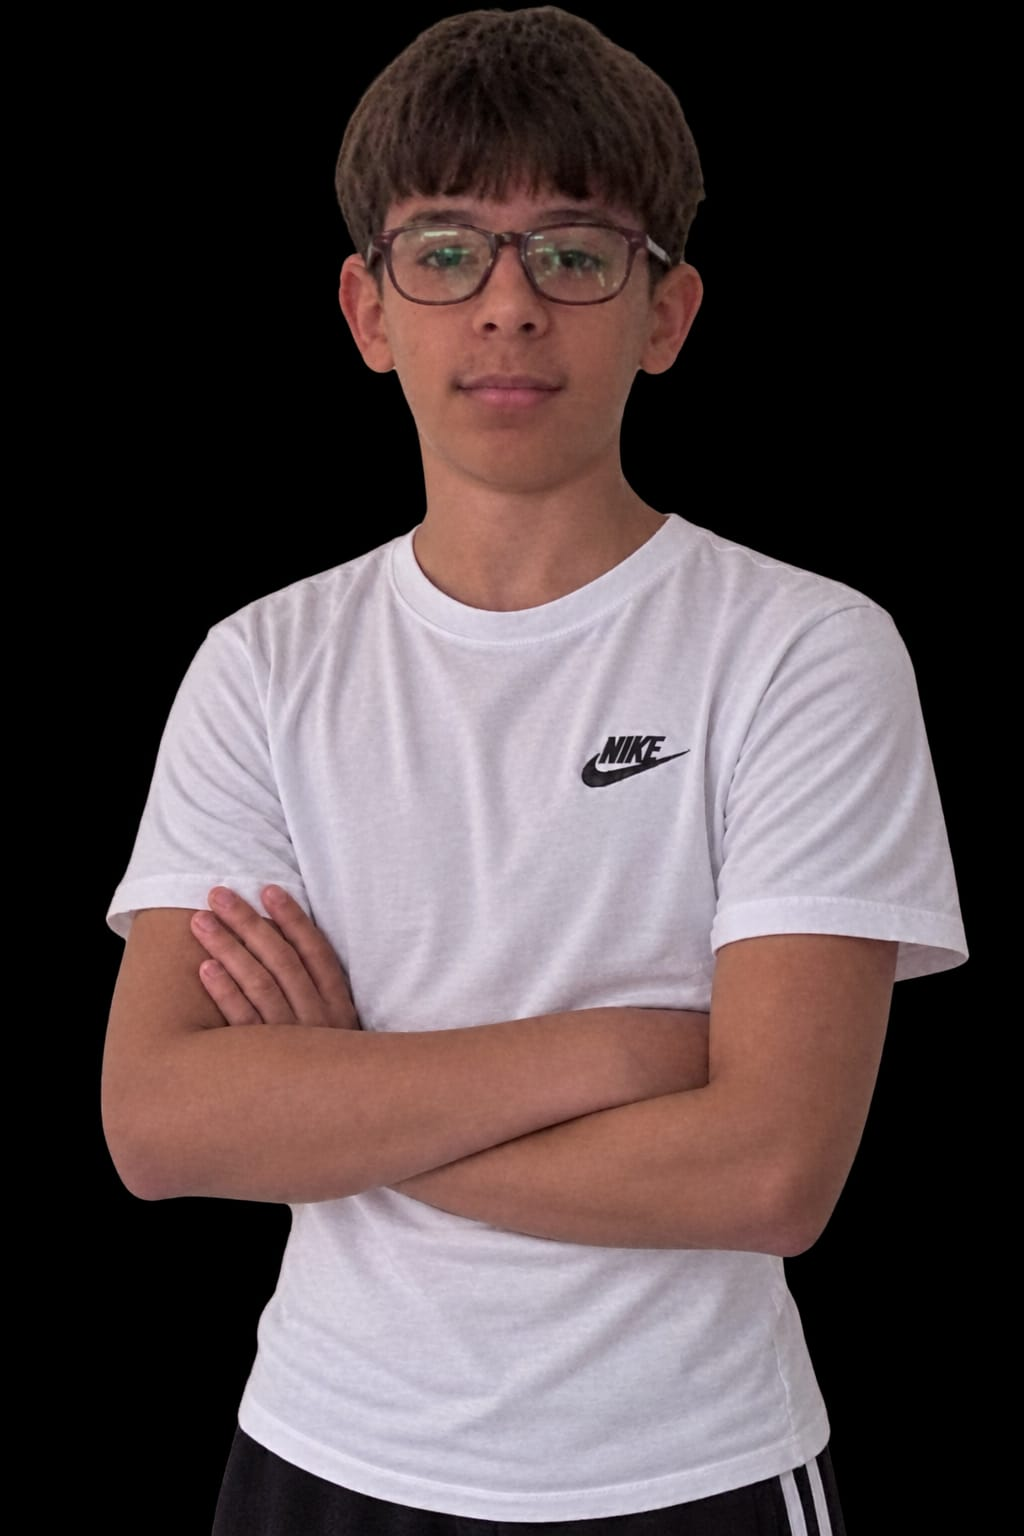
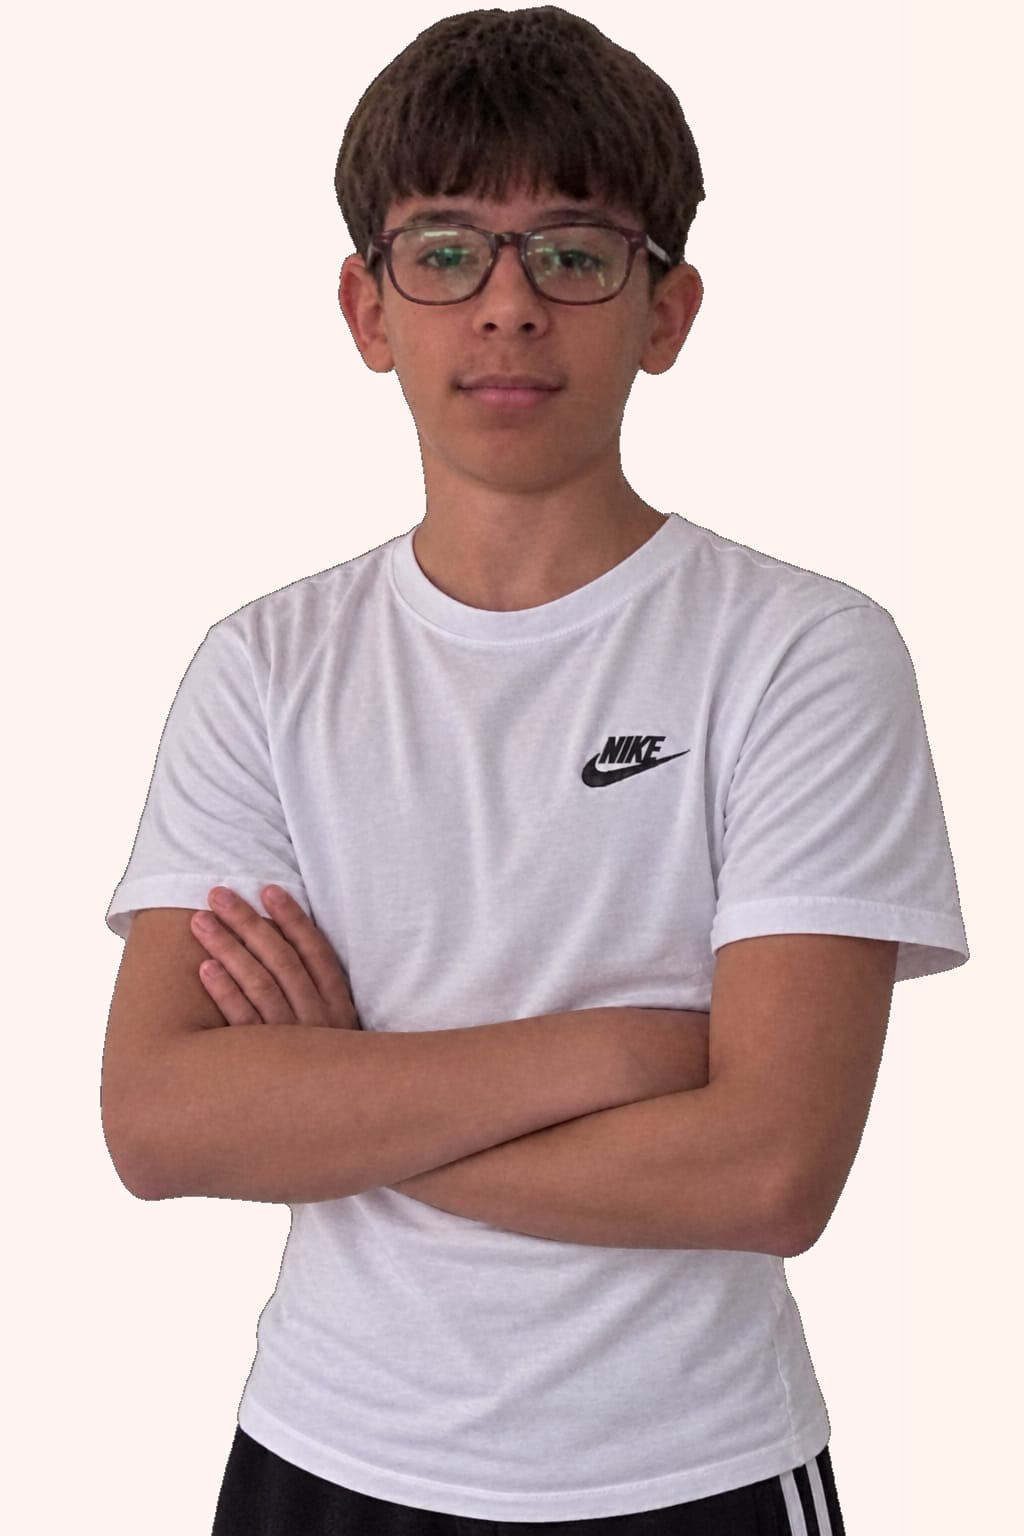
Add files via upload

diff --git a/styles.css b/styles.css
@@ -10,3 +10,7 @@
 @media(max-width:850px){.site-header{height:76px}.brand{width:130px}.menu-toggle{display:block}.main-nav{display:none;position:absolute;top:76px;left:0;right:0;background:#fff;padding:22px 26px 28px;box-shadow:0 15px 20px rgba(0,0,0,.08);flex-direction:column;align-items:stretch;gap:20px}.main-nav.open{display:flex}.nav-cta{text-align:center}.hero{min-height:640px}.hero-photo{background-size:auto 82%;background-position:85% bottom;opacity:.58}.hero-overlay{background:linear-gradient(90deg,rgba(3,48,29,.98),rgba(4,69,39,.78)),linear-gradient(0deg,rgba(0,0,0,.2),transparent)}.hero-content{width:100%;padding:90px 26px 115px}.hero-seal{right:26px;top:25px;width:84px;height:84px}.hero-seal span{font-size:36px}.hero-seal small{font-size:6px}.intro{grid-template-columns:85px 1fr;gap:25px;padding-top:75px;padding-bottom:80px}.intro-symbol{width:76px;height:76px;font-size:36px}.intro-text{grid-column:2;border-left:0;border-top:2px solid var(--green);padding:18px 0 0}.team-section,.proposals-section{padding:75px 0}.team-grid{grid-template-columns:repeat(2,1fr);gap:16px}.member-photo{height:310px}.section-heading{align-items:flex-start;flex-direction:column;gap:17px;margin-bottom:32px}.proposal-grid{grid-template-columns:repeat(2,1fr)}.proposal-wide{grid-column:span 2}.closing-logo{width:210px;right:10px;opacity:.35}.closing-content{max-width:80%}}
 @media(max-width:540px){.topline{font-size:7px;letter-spacing:.12em}.hero{min-height:610px}.hero h1{font-size:52px}.hero-copy{font-size:13px;max-width:370px}.hero-actions{gap:17px}.button{padding:15px 16px;font-size:8px}.hero-bottomline{gap:12px;font-size:7px}.intro{grid-template-columns:1fr;gap:18px}.intro-symbol{width:66px;height:66px;font-size:31px}.intro-text{grid-column:1}.team-grid{grid-template-columns:1fr 1fr;gap:11px}.member-photo{height:245px}.member-info{padding:16px 14px 18px}.member-name{font-size:16px}.member-role{font-size:7px;letter-spacing:.12em}.proposal-grid{grid-template-columns:1fr}.proposal-wide{grid-column:span 1}.proposal-card{min-height:245px;padding:23px}.proposal-card h3{font-size:25px}.closing-banner{min-height:360px;padding:65px 25px}.closing-content{max-width:100%}.closing-content h2{font-size:42px}.closing-logo{width:150px;right:-12px;bottom:15px;opacity:.18}.site-footer{flex-direction:column;align-items:flex-start;gap:11px;padding:25px}.site-footer p{line-height:1.6}}
 @media(prefers-reduced-motion:reduce){html{scroll-behavior:auto}*,*::before,*::after{transition:none!important;animation:none!important}}
+
+/* Retrato del portavoz: fondo integrado y encuadre centrado */
+.spokesperson-photo{background:#fff3ee;}
+.spokesperson-photo img{object-fit:contain;object-position:center bottom;width:100%;height:100%;}

diff --git a/index.html b/index.html
@@ -66,8 +66,8 @@
             <span class="member-photo"><img src="assets/presidente.png" alt="Presidencia y deportes"></span>
             <span class="member-info"><span class="member-role">Presidencia y deportes</span><span class="member-name">Álvaro Mora</span><span class="member-line"></span><span class="member-hint">Pulsa para conocer su nombre</span></span>
           </button></article>
-          <article class="member-card"><button class="member-toggle" type="button" aria-expanded="false">
-            <span class="member-photo"><img src="assets/portavoz.jpeg" alt="Portavoz y educación"></span>
+          <article class="member-card spokesperson-card"><button class="member-toggle" type="button" aria-expanded="false">
+            <span class="member-photo spokesperson-photo"><img src="assets/portavoz.jpeg" alt="Portavoz y educación"></span>
             <span class="member-info"><span class="member-role">Portavoz y educación</span><span class="member-name">Fernando Sánchez</span><span class="member-line"></span><span class="member-hint">Pulsa para conocer su nombre</span></span>
           </button></article>
           <article class="member-card"><button class="member-toggle" type="button" aria-expanded="false">
